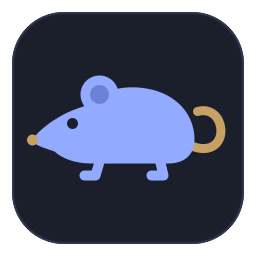
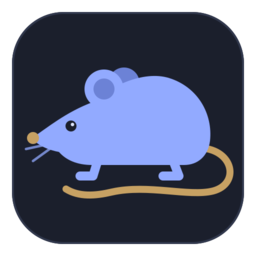
Desktop opens on /goal; the rat is redrawn to read at dock size
The slash menu and the command list put /goal first under Commands and no
longer advertise the hidden one-standard shortcuts, which still work when
typed. An extension's own chainable commands are grouped as Standards. An
empty session offers "Set a goal" as its first action, and the actions wrap
in a narrow window.

The launcher icon and the mark are one new drawing: a rat in side profile as
a filled silhouette in the same periwinkle, brass and navy, so ear, snout,
eye and tail survive at 28 px. The previous icon bytes are accepted in
history only.

The desktop test covers the empty session at full and 560 px width, /goal
leading the menu, and that a hidden command is not listed.

Changed region(s): [[0.2188, 0.25, 0.9375, 0.7812], [0.0938, 0.4688, 0.2188, 0.6562], [0.2188, 0.5938, 0.25, 0.625]]

diff --git a/desktop/renderer/app.js b/desktop/renderer/app.js
@@ -618,19 +618,23 @@ async function showThinking() {
   const id = activeId; if (!id) return;
   await loadingModal('Thinking level', id, () => api.models(id), (content, { levels }) => { const list = element('div', 'dialog-list'); for (const level of levels) list.append(actionButton(level[0].toUpperCase() + level.slice(1), 'brain', async () => { await api.setThinking(id, level); conversationOf(id).thinkingLevel = level; renderChrome(); })); content.append(list); });
 }
-// The session's commands, fetched once per runtime: boosts (chainable), then
-// one-shot commands and workflows, then skills.
+// The session's commands, fetched once per runtime. Menus list commands, then
+// skills, with /goal first: it is the one command a task needs. Shortcut
+// commands the harness marks hidden still work when typed and are read by the
+// command lens; they are just not advertised. A chainable command that is not
+// hidden (an extension's own) gets its own group.
 function commandsFor(id) {
   // Terminal-only commands cannot run here, so they are not offered.
   if (!commandLists.has(id)) commandLists.set(id, api.commands(id).then(result => result.commands.filter(c => !c.interactiveOnly)).catch(error => { commandLists.delete(id); throw error; }));
   return commandLists.get(id);
 }
 const COMMAND_GROUPS = [
-  { key: 'boost', title: 'Boosts', note: 'Combine any of these in one message: /3d /video /noslop make a film about…', symbol: 'link' },
-  { key: 'command', title: 'Commands', note: 'Run one at a time.', symbol: 'compass' },
+  { key: 'command', title: 'Commands', note: '/goal keeps working until the result holds; it chooses its own standards.', symbol: 'compass' },
+  { key: 'boost', title: 'Standards', note: 'Optional. Add one to a goal to insist on it.', symbol: 'link' },
   { key: 'skill', title: 'Skills', note: 'Load one guide into the session.', symbol: 'file' },
 ];
-const groupOf = command => command.chainable ? 'boost' : command.source === 'skill' ? 'skill' : 'command';
+const groupOf = command => command.name === 'goal' ? 'command' : command.chainable ? 'boost' : command.source === 'skill' ? 'skill' : 'command';
+const listed = commands => commands.filter(c => !c.hidden).sort((a, b) => (b.name === 'goal') - (a.name === 'goal'));
 function commandOption(command, symbol) {
   const button = element('button'), detail = element('span', '', `/${command.name}`);
   detail.append(element('small', '', command.description || command.source)); button.append(icon(symbol), detail);
@@ -643,7 +647,7 @@ async function showCommands() {
     const draw = () => {
       list.replaceChildren();
       const query = search.value.toLocaleLowerCase();
-      const matches = commands.filter(c => `${c.name} ${c.description ?? ''}`.toLocaleLowerCase().includes(query));
+      const matches = listed(commands).filter(c => `${c.name} ${c.description ?? ''}`.toLocaleLowerCase().includes(query));
       for (const group of COMMAND_GROUPS) {
         const members = matches.filter(c => groupOf(c) === group.key).slice(0, 150);
         if (!members.length) continue;
@@ -658,8 +662,8 @@ async function showCommands() {
   });
 }
 
-// Slash menu: typing /… at the start lists commands; after a boost, typing /…
-// again lists the boosts that can still join the chain.
+// Slash menu: typing /… at the start lists commands; after a chainable one,
+// typing /… again lists the others that can still join it.
 let commandMenu = null, commandMenuRequest = 0;
 function slashContext() {
   const prompt = $('prompt'); if (prompt.selectionStart !== prompt.selectionEnd) return null;
@@ -687,7 +691,7 @@ async function updateCommandMenu() {
   if (request !== commandMenuRequest || id !== activeId || !context) return request === commandMenuRequest ? closeCommandMenu() : undefined;
   const sections = [];
   if (context.kind === 'command') {
-    const ranked = rankCommands(commands, context.query);
+    const ranked = rankCommands(listed(commands), context.query);
     for (const group of COMMAND_GROUPS) {
       if (group.key === 'skill' && context.query.length < 2) continue;
       const members = ranked.filter(c => groupOf(c) === group.key).slice(0, group.key === 'boost' ? 8 : 6);
@@ -696,7 +700,7 @@ async function updateCommandMenu() {
   } else if (commands.find(c => c.name === context.head)?.chainable) {
     const present = new Set([...$('prompt').value.matchAll(/(?:^|\s)\/([\w-]+)/g)].map(match => match[1].toLocaleLowerCase()));
     const members = commands.filter(c => c.chainable && !present.has(c.name) && c.name.startsWith(context.query));
-    if (members.length) sections.push({ group: { ...COMMAND_GROUPS[0], note: `Joins /${context.head} in the same message.` }, members });
+    if (members.length) sections.push({ group: { ...COMMAND_GROUPS.find(group => group.key === 'boost'), note: `Joins /${context.head} in the same message.` }, members });
   }
   if (!sections.length) return closeCommandMenu();
   commandMenu = { context, items: sections.flatMap(section => section.members), index: 0 };
@@ -973,7 +977,7 @@ document.addEventListener('keydown', event => {
 for (const suggestion of document.querySelectorAll('[data-suggest]')) suggestion.onclick = () => tryAction(async () => {
   if (!activeId) await newSession();
   if (!activeId) return;
-  setEditorDraft(activeId, { explore: 'Explore this project and explain how its main parts fit together.', build: 'Help me build ', improve: 'Find and fix the most useful improvements in this project.' }[suggestion.dataset.suggest], true);
+  setEditorDraft(activeId, { goal: '/goal ', explore: 'Explore this project and explain how its main parts fit together.', build: 'Help me build ', improve: 'Find and fix the most useful improvements in this project.' }[suggestion.dataset.suggest], true);
 });
 let narrow = innerWidth <= 850;
 new ResizeObserver(() => {

diff --git a/desktop/renderer/index.html b/desktop/renderer/index.html
@@ -67,7 +67,7 @@
       </header>
       <div class="conversation-shell">
         <div id="conversation" class="conversation" tabindex="0" aria-label="Conversation">
-          <div id="welcome" class="welcome"><img class="hero-rat" src="assets/rat.svg" alt="YunusPi rat" width="210" height="133"><h1>What are we building?</h1><p>Your tools. Your models. A little more instinct.</p><div class="suggestions"><button data-suggest="explore"><svg><use href="#i-compass"/></svg><span>Explore</span></button><button data-suggest="build"><svg><use href="#i-code"/></svg><span>Build</span></button><button data-suggest="improve"><svg><use href="#i-tune"/></svg><span>Improve</span></button></div><button id="welcome-project" class="welcome-project"><svg><use href="#i-folder"/></svg><span>Choose a project to begin</span></button></div>
+          <div id="welcome" class="welcome"><img class="hero-rat" src="assets/rat.svg" alt="YunusPi rat" width="210" height="133"><h1>What are we building?</h1><p>Your tools. Your models. A little more instinct.</p><div class="suggestions"><button data-suggest="goal"><svg><use href="#i-target"/></svg><span>Set a goal</span></button><button data-suggest="explore"><svg><use href="#i-compass"/></svg><span>Explore</span></button><button data-suggest="build"><svg><use href="#i-code"/></svg><span>Build</span></button><button data-suggest="improve"><svg><use href="#i-tune"/></svg><span>Improve</span></button></div><button id="welcome-project" class="welcome-project"><svg><use href="#i-folder"/></svg><span>Choose a project to begin</span></button></div>
           <button id="load-earlier" class="load-earlier" hidden>Load earlier messages</button>
           <div id="messages" class="messages" aria-live="off"></div>
           <div id="turn-status" class="turn-status" role="status" hidden><span class="working-mark"><i></i><i></i><i></i></span><span>Working</span></div>

diff --git a/desktop/renderer/styles.css b/desktop/renderer/styles.css
@@ -420,7 +420,14 @@ kbd {
 }
 .suggestions {
   display:flex;
+  flex-wrap:wrap;
+  justify-content:center;
   gap:11px
+}
+/* The one action a task needs carries the accent; the rest stay quiet. */
+.suggestions button[data-suggest="goal"] {
+  border-color:var(--accent);
+  color:var(--accent)
 }
 .suggestions button {
   display:flex;

diff --git a/docs/DESKTOP.md b/docs/DESKTOP.md
@@ -32,9 +32,9 @@ Images can be chosen, dropped or pasted, up to six images and 10 MiB total. Tool
 The Workbench shows tool activity, the project, peer sessions, extension widgets and measured session usage. Commands and skills remain discoverable through the harness. RPC-aware extension selection, confirmation, input and editor dialogs appear as native HTML dialogs, with keyboard focus contained while open. Legacy terminal-only custom component factories are not rendered by the desktop; maintained session/subagent/background controls use their RPC alternatives.
 
 
-Typing `/` opens the command menu. Boosts (`/goal`, `/noslop`, `/nobug`, `/3d`, `/video`, `/anatomy`) come first with a link mark, since they combine in one message. One-shot commands follow, then skills once two letters are typed. After a boost, typing `/` and a letter lists the boosts that can still join. Arrow keys move, Enter or Tab inserts and Escape closes. Before a command is sent, it is checked against the session's real command list. A near miss opens "Did you mean …?", where Enter applies the correction and sends it. An unknown command, or a terminal-only one such as `/tree` or `/llama`, is explained and never sent to the model. `/new` and `/name` work here as in the terminal.
+An empty session offers **Set a goal** first; it puts `/goal ` in the composer. Typing `/` opens the command menu with `/goal` at the top: it is the one command a task needs, since a goal adopts the standards its work calls for. Other commands follow, then skills once two letters are typed. The shortcut commands for one standard (`/noslop`, `/nobug`, `/3d`, `/video`, `/anatomy`) are not listed; they still work when typed, and typing `/` and a letter after one lists an extension's own chainable commands that can join it under **Standards**. Arrow keys move, Enter or Tab inserts and Escape closes. Before a command is sent, it is checked against the session's real command list. A near miss opens "Did you mean …?", where Enter applies the correction and sends it. An unknown command, or a terminal-only one such as `/tree` or `/llama`, is explained and never sent to the model. `/new` and `/name` work here as in the terminal.
 
-While you type a command, the composer marks each command token where it stands: a recognized command or boost is tinted, a near miss gets an amber underline, and a token that matches no command (`/autonomy`) gets a red one. One line under the text says what Enter will do, for example "/3d + /video → one goal for your task", "Resumes the goal (2 of 6 criteria settled) with a fresh continuation budget", "This session has no goal to resume; nothing will start" or "Starts a new goal; it replaces the current one". A token that is not a command would reach the model as plain words, so the first Enter says so and the second sends as typed. The sent bubble keeps those marks and that reading.
+While you type a command, the composer marks each command token where it stands: a recognized command is tinted, a near miss gets an amber underline, and a token that matches no command (`/autonomy`) gets a red one. One line under the text says what Enter will do, for example "/3d + /video → one goal for your task", "Resumes the goal (2 of 6 criteria settled) with a fresh continuation budget", "This session has no goal to resume; nothing will start" or "Starts a new goal; it replaces the current one". A token that is not a command would reach the model as plain words, so the first Enter says so and the second sends as typed. The sent bubble keeps those marks and that reading.
 
 The conversation shows what the harness does: extension notices (goal set, continuing, stalled, achieved, cost and effort notes) stay in the transcript instead of fading toasts; harness lines (Jev and Kev judgements with their caller, automatic effort changes or the decision to hold effort for the prompt cache, skill reads, Guardian verdicts) collapse into one quiet "Harness" row per run that expands to every line; a goal kickoff is a goal card; and the goal bar above the composer shows an unfinished goal (open, running, paused or stalled) with Resume or Retry, read from the saved transcript before the session's runtime starts.
 ## Data and updates
